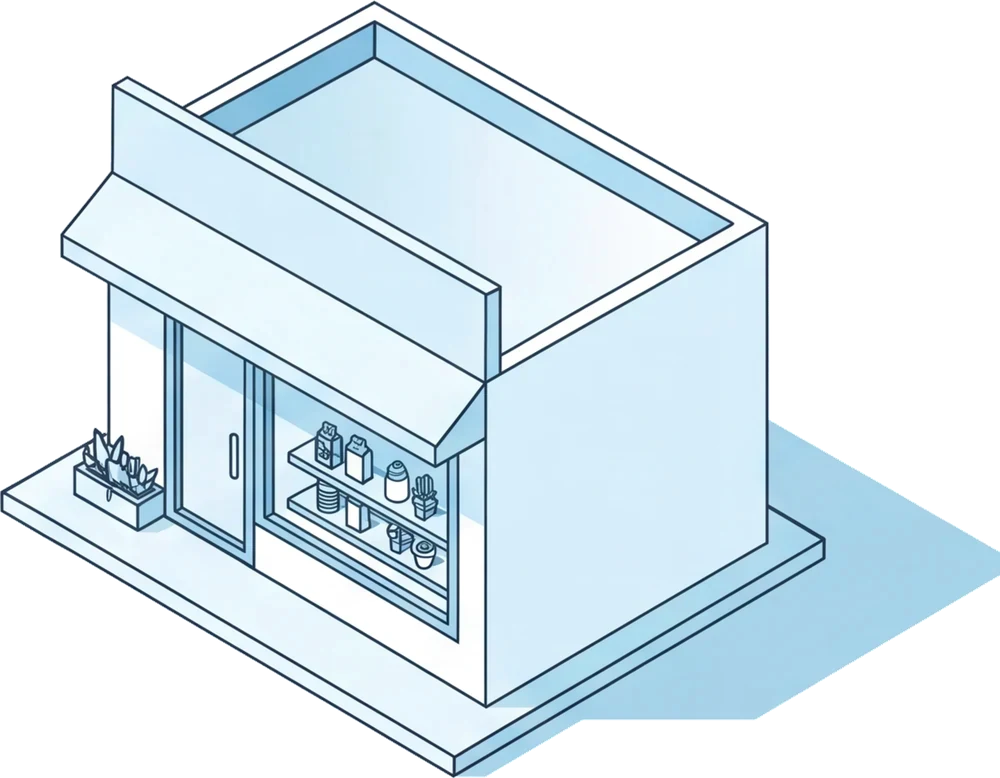
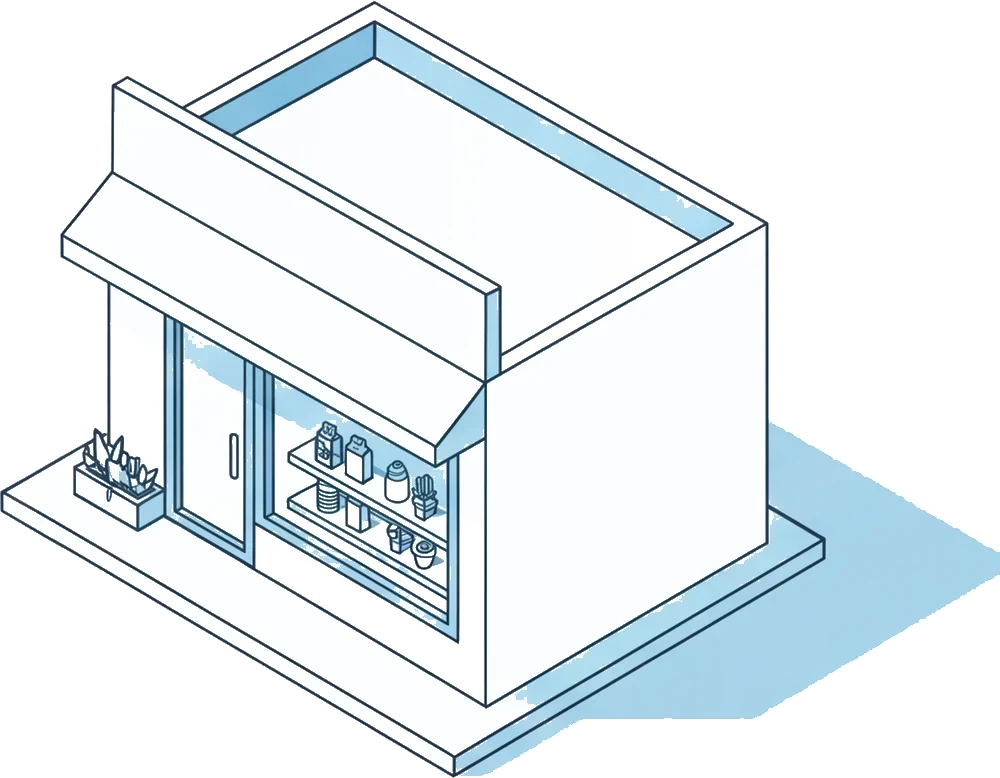
Planches de bâtiment blanchies, posées sur le bleu de marque
Les aplats pâles passent au blanc (trait et bleus soutenus gardés), comme
l'illustration de la landing ; la carte du tableau de bord prend
--board-sky quand elle montre le dessin. Le bleu sur bleu ne se lisait pas.

diff --git a/src/components/dashboard/widgets/impl/CartePhotoLieu.tsx b/src/components/dashboard/widgets/impl/CartePhotoLieu.tsx
@@ -109,7 +109,14 @@ export function CartePhotoLieu({
   }
 
   return (
-    <div className="relative min-h-[220px] overflow-hidden rounded-[24px] bg-[color:var(--board-card)] ring-1 ring-[color:rgba(13,18,36,.10)]">
+    // Sans photo, le dessin pose sur le bleu de marque (2026-11-11) : les
+    // planches sont blanches à liseré bleu, comme l'illustration de la
+    // landing ; sur une carte blanche, le bleu pâle du dessin se perdait.
+    <div
+      className={`relative min-h-[220px] overflow-hidden rounded-[24px] ring-1 ring-[color:rgba(13,18,36,.10)] ${
+        photo ? "bg-[color:var(--board-card)]" : "bg-[color:var(--board-sky)]"
+      }`}
+    >
       {photo ? (
         // Non optimisée : la photo est servie sous session
         // (`/api/etablissements/[id]/photo`), l'optimiseur la demanderait sans.

diff --git a/public/illustrations/README.md b/public/illustrations/README.md
@@ -55,3 +55,4 @@ ardoise `#304148`, bleus de la charte (`#d8eef9`, `#b2daf2`, `#a9d3ec`,
 ci-dessus (pêche, eau, crème) sont caduques pour cette série. La salle de
 sport n'a plus de planche : le type X prend le local générique, seules les
 grandes catégories ont la leur (décision de la propriétaire).]
+\n\n[2026-11-11, plus tard : aplats pâles blanchis en code, comme l'illustration\nde la landing — bâtiment blanc à liseré bleu, posé sur `--board-sky` dans\nla carte du tableau de bord et dans la fenêtre d'accueil de l'onboarding.\nLe bleu sur bleu ne se lisait pas.]\n
